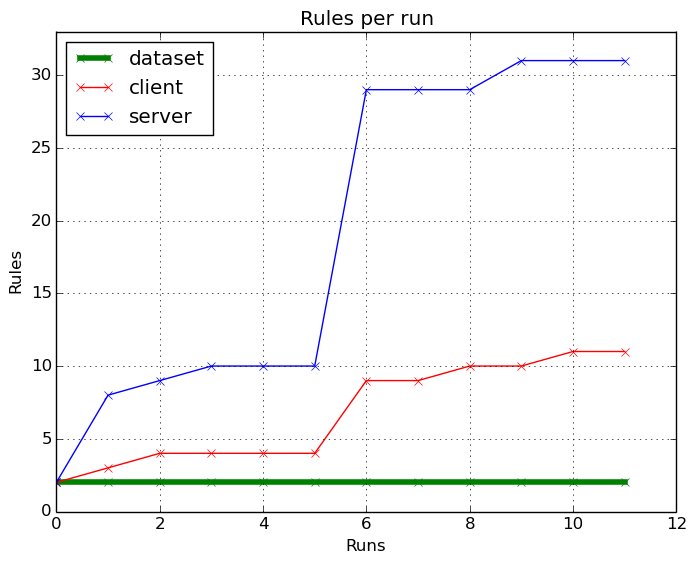
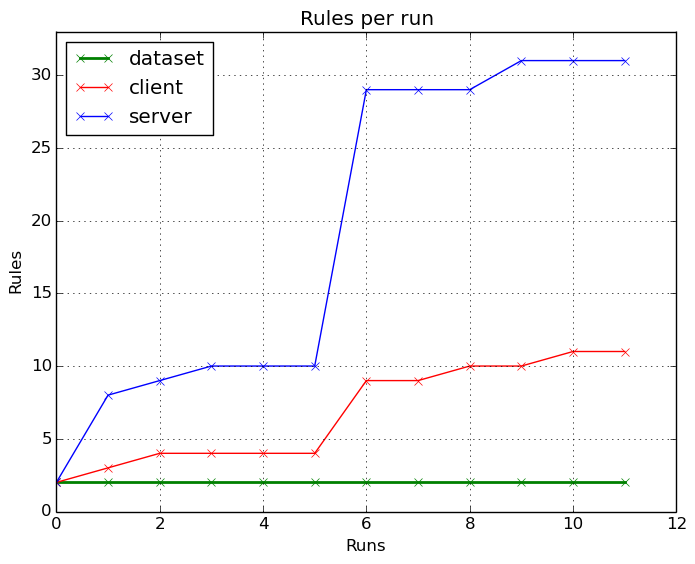
Fixing some more details on plot.py

Changed region(s): [[0.0906, 0.844, 0.9065, 0.8741], [0.1209, 0.0904, 0.1511, 0.1206]]

diff --git a/Parser/metrics/plot.py b/Parser/metrics/plot.py
@@ -50,7 +50,7 @@ for x in range(int(num_of_runs)):
 
 fig = plt.figure()
 ax = fig.add_subplot(111)
-ax.plot(x_Axis, rules[0], label="dataset", linewidth=4, color="green", marker='x')
+ax.plot(x_Axis, rules[0], label="dataset", linewidth=2, color="green", marker='x')
 ax.plot(x_Axis, rules[1], label="client", color="red", marker='x')
 ax.plot(x_Axis, rules[2], label="server", color="blue", marker='x')
 """
